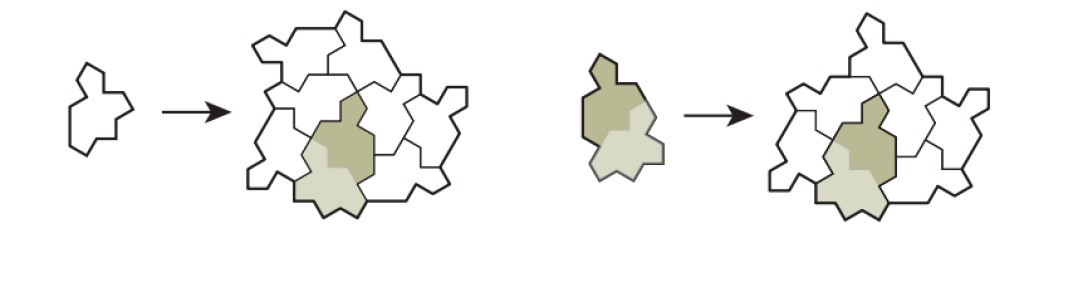
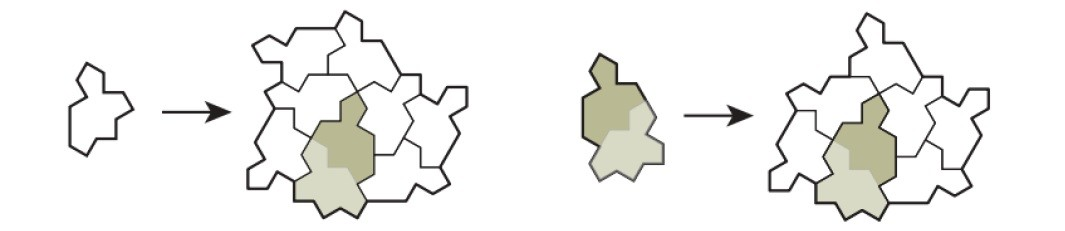
Sistemazione immagini tasselli

Changed region(s): [[0.5268, 0.0303, 0.9296, 0.9697], [0.062, 0.0303, 0.4648, 0.9394]]

diff --git a/tassellazioni.html b/tassellazioni.html
@@ -2,214 +2,238 @@
 <html lang="it">
 
 <head>
-	<title>Tassellazioni del piano - Mattia Garatti</title>
-	<!-- <meta name="description" content=""> -->
-	<meta charset="UTF-8">
-	<meta name="viewport" content="width=device-width, initial-scale=1, user-scalable=no" />
-	<meta http-equiv="Cache-Control" content="no-cache, no-store, must-revalidate" />
-	<meta http-equiv="Pragma" content="no-cache" />
-	<meta http-equiv="Expires" content="0" />
-	<link rel="stylesheet" href="assets/css/main.css" />
-	<link rel="icon" href="images/favicon.ico" type="image/x-icon">
-	<noscript><link rel="stylesheet" href="assets/css/noscript.css" /></noscript>
-	<script id="MathJax-script" async src="https://cdn.jsdelivr.net/npm/mathjax@3/es5/tex-mml-chtml.js"></script>
+    <title>Tassellazioni del piano - Mattia Garatti</title>
+    <meta charset="UTF-8">
+    <meta name="viewport" content="width=device-width, initial-scale=1, user-scalable=no" />
+    <meta http-equiv="Cache-Control" content="no-cache, no-store, must-revalidate" />
+    <meta http-equiv="Pragma" content="no-cache" />
+    <meta http-equiv="Expires" content="0" />
+    <link rel="stylesheet" href="assets/css/main.css" />
+    <link rel="icon" href="images/favicon.ico" type="image/x-icon">
+    <noscript><link rel="stylesheet" href="assets/css/noscript.css" /></noscript>
+    <script id="MathJax-script" async src="https://cdn.jsdelivr.net/npm/mathjax@3/es5/tex-mml-chtml.js"></script>
 </head>
 
 <body class="is-preload tassellazioni">
 
-	<div id="page-wrapper">
+    <div id="page-wrapper">
 
-		<header id="header">
-			<h1><a href="index.html">BACK</a></h1>
-		</header>
+        <header id="header">
+            <h1><a href="index.html">BACK</a></h1>
+        </header>
 
-		<section id="wrapper">
-			<header>
-				<div class="inner">
-					<h2>Tassellazioni del piano</h2>
-				</div>
-			</header>
+        <section id="wrapper">
+            <header>
+                <div class="inner">
+                    <h2>Tassellazioni del piano</h2>
+                </div>
+            </header>
 
-			<div class="wrapper">
-				<div class="inner">
+            <div class="wrapper">
+                <div class="inner">
 
-					<section id="introduzione">
-						<h2 class="major">Introduzione alle tassellazioni</h2>
-						<p style="text-align: justify;">Una tassellazione è una configurazione costituita da poligoni o figure, ditto tasselli, uguali o differenti tra loro, che ricoprono una porzione di piano, l'intero piano o l'intero spazio. I due requisiti essenziali sono che il ricoprimento sia completo, senza spazi tra i tasselli, e non vi siano sovrapposizioni tra le tessere.</p>
+                    <section id="introduzione">
+                        <h2 class="major">Introduzione alle tassellazioni</h2>
+                        <p style="text-align: justify;">Una tassellazione è una configurazione costituita da poligoni o figure, ditto tasselli, uguali o differenti tra loro, che ricoprono una porzione di piano, l'intero piano o l'intero spazio. I due requisiti essenziali sono che il ricoprimento sia completo, senza spazi tra i tasselli, e non vi siano sovrapposizioni tra le tessere.</p>
 
-						<blockquote>
-							Sulla base di questa immagine mentale, quali possono essere esempi di tassellazioni che si incontrano quotidianamente? 
-						</blockquote>
+                        <blockquote>
+                            Sulla base di questa immagine mentale, quali possono essere esempi di tassellazioni che si incontrano quotidianamente? 
+                        </blockquote>
 
-						<p style="text-align: justify;">Alcuni esempi sono sicuramente le piastrellature di pavimenti o pareti, oppure particolari decorazioni artistiche, come quelle dell'Alhambra a Granada. </p>
-						<p style="text-align: justify;">Le prime tassellazioni risalgono ai Sumeri, mentre il primo matematico che le ha studiate in tempi più recenti è Keplero: ne troviamo infatti traccia nel trattato "<span class="emphasis">Le armonie del mondo</span>" del 1619.</p>
+                        <p style="text-align: justify;">Alcuni esempi sono sicuramente le piastrellature di pavimenti o pareti, oppure particolari decorazioni artistiche, come quelle dell'Alhambra a Granada. </p>
+                        <p style="text-align: justify;">Le prime tassellazioni risalgono ai Sumeri, mentre il primo matematico che le ha studiate in tempi più recenti è Keplero: ne troviamo infatti traccia nel trattato "<span class="emphasis">Le armonie del mondo</span>" del 1619.</p>
 
-						<div class="tassellazioni-grid grid-large">
-							<div class="grid-item" style="text-align: center; margin-bottom: 2em;">
-								<img src="images/tassellazioni/pp,550x550.u2.jpg" alt="Tassellazione periodica storica" style="max-width: 100%; height: auto; border-radius: 4px; display: block; margin: 0 auto;" />
-								<p style="font-style: italic; font-size: 0.9em; margin-top: 0.5em;">Particolare di decorazione artistiche, Alhambra (Granada).</p>
-							</div>
-						</div>
+                        <div class="tassellazioni-grid grid-large">
+                            <div class="grid-item" style="text-align: center; margin-bottom: 2em;">
+                                <img src="images/tassellazioni/pp,550x550.u2.jpg" alt="Tassellazione periodica storica" style="max-width: 500px; width: 100%; height: auto; border-radius: 4px; display: block; margin: 0 auto;" />
+                                <p style="font-style: italic; font-size: 0.9em; margin-top: 0.5em;">Particolare di decorazione artistiche, Alhambra (Granada).</p>
+                            </div>
+                        </div>
 
                         <p style="text-align: justify;">Una definizione più rigorsa è la seguente.</p>
 
-						<div class="box">
-							<h3 class="major">Definizione</h3>
-							<p>Consideriamo un insieme <em>S</em>, lo <em>spazio</em>, e un sottoinsieme <em>P</em> di <em>S</em>, i <em>prototipi dei tasselli</em>, che assumiamo essere senza buchi, limitati e formati da un pezzo solo ciascuno (ossia <em>connessi</em>). Preso un sottoinsieme <em>X</em> di S, una <em>tassellazione</em> di <em>X</em> di tipo <em>P</em> è un insieme finito, o infinito numerabile, <em>T</em> di tasselli con le seguenti proprietà:</p>
-							<ol style="list-style-type: lower-alpha;">
-								<li>l'unione di tutti i tasselli è <em>X</em>,</li>
-								<li>tasselli distinti hanno parti interne disgiunte.</li>
-							</ol>
-						</div>
+                        <div class="box">
+                            <h3 class="major">Definizione</h3>
+                            <p>Consideriamo un insieme <em>S</em>, lo <em>spazio</em>, e un sottoinsieme <em>P</em> di <em>S</em>, i <em>prototipi dei tasselli</em>, che assumiamo essere senza buchi, limitati e formati da un pezzo solo ciascuno (ossia <em>connessi</em>). Preso un sottoinsieme <em>X</em> di S, una <em>tassellazione</em> di <em>X</em> di tipo <em>P</em> è un insieme finito, o infinito numerabile, <em>T</em> di tasselli con le seguenti proprietà:</p>
+                            <ol style="list-style-type: lower-alpha;">
+                                <li>l'unione di tutti i tasselli è <em>X</em>,</li>
+                                <li>tasselli distinti hanno parti interne disgiunte.</li>
+                            </ol>
+                        </div>
 
-						<p style="text-align: justify;">Una tassellazione è <em>propria</em> se i tasselli si incontrano solo in corrispondenze lato-lato o vertice-vertice. Le tassellazioni si distinguono in tassellazioni periodiche (come quella nella figura precedente) e non periodiche.</p>
-					</section>
+                        <p style="text-align: justify;">Una tassellazione è <em>propria</em> se i tasselli si incontrano solo in corrispondenze lato-lato o vertice-vertice. Le tassellazioni si distinguono in tassellazioni periodiche (come quella nella figura precedente) e non periodiche.</p>
+                    </section>
 
-					<hr />
+                    <hr />
 
-					<section id="periodiche">
-						<h2 class="major">Le tassellazioni periodiche</h2>
-						<p style="text-align: justify;">Una tassellazione si dice <em>periodica</em> se viene costruita ripetendo una cella elementare di base.</p>
+                    <section id="periodiche">
+                        <h2 class="major">Le tassellazioni periodiche</h2>
+                        <p style="text-align: justify;">Una tassellazione si dice <em>periodica</em> se viene costruita ripetendo una cella elementare di base.</p>
 
-						<h3 class="major">Il caso piano</h3>
-						<p style="text-align: justify;"><strong>Teorema</strong> Una tassellazione piana <em>T</em> è periodica se e solo se esistono due vettori <strong>v</strong><sub>1</sub>,<strong>v</strong><sub>2</sub> linearmente indipendenti tali che se <em>T</em> viene traslata tramite <strong>v</strong><sub>1</sub>,<strong>v</strong><sub>2</sub>, rimane invariata.</p>
-						<p style="text-align: justify;">Osserviamo poi che per il <em>Teorema Fondamentale della Cristallografia</em>, che definisce i legami tra i parametri relativi agli assi di riferimento di un cristallo, si possono costruire tassellazioni periodiche piane utilizzando come cella elementare un poligono regolare se e solo se tale poligono è un triangolo, un quadrato o un esagono.</p>
+                        <h3 class="major">Il caso piano</h3>
+                        <p style="text-align: justify;"><strong>Teorema</strong> Una tassellazione piana <em>T</em> è periodica se e solo se esistono due vettori <strong>v</strong><sub>1</sub>,<strong>v</strong><sub>2</sub> linearmente indipendenti tali che se <em>T</em> viene traslata tramite <strong>v</strong><sub>1</sub>,<strong>v</strong><sub>2</sub>, rimane invariata.</p>
+                        <p style="text-align: justify;">Osserviamo poi che per il <em>Teorema Fondamentale della Cristallografia</em>, che definisce i legami tra i parametri relativi agli assi di riferimento di un cristallo, si possono costruire tassellazioni periodiche piane utilizzando come cella elementare un poligono regolare se e solo se tale poligono è un triangolo, un quadrato o un esagono.</p>
 
-						<div class="row" style="margin-bottom: 2em; text-align: center;">
-							<div class="col-4 col-12-medium"><img src="images/tassellazioni/Triangoli.jpg" alt="Triangoli" style="width: 100%; max-width: 100%; border-radius: 4px; display: block; margin: 0 auto;" /><h5>Triangoli</h5></div>
-							<div class="col-4 col-12-medium"><img src="images/tassellazioni/Quadrati.jpg" alt="Quadrati" style="width: 100%; max-width: 100%; border-radius: 4px; display: block; margin: 0 auto;" /><h5>Quadrati</h5></div>
-							<div class="col-4 col-12-medium"><img src="images/tassellazioni/Esagoni.jpg" alt="Esagoni" style="width: 100%; max-width: 100%; border-radius: 4px; display: block; margin: 0 auto;" /><h5>Esagoni</h5></div>
+                        <div style="display: flex; flex-wrap: wrap; justify-content: center; align-items: center; text-align: center; margin-bottom: 3em; gap: 20px;">
+    
+    						<div style="flex: 1; min-width: 200px; max-width: 260px;">
+        						<img src="images/tassellazioni/Triangoli.jpg" alt="Triangoli" style="width: 100%; height: auto; border-radius: 4px; display: block; margin: 0 auto;" />
+        						<h5 style="margin-top: 0.8em; margin-bottom: 0;">Triangoli</h5>
+    						</div>
+    
+    						<div style="flex: 1; min-width: 200px; max-width: 370px;">
+        						<img src="images/tassellazioni/Quadrati.jpg" alt="Quadrati" style="width: 100%; height: auto; border-radius: 4px; display: block; margin: 0 auto;" />
+        						<h5 style="margin-top: 0.8em; margin-bottom: 0;">Quadrati</h5>
+    						</div>
+    
+    					<div style="flex: 1; min-width: 200px; max-width: 230px;">
+        					<img src="images/tassellazioni/Esagoni.jpg" alt="Esagoni" style="width: 100%; height: auto; border-radius: 4px; display: block; margin: 0 auto;" />
+        					<h5 style="margin-top: 0.8em; margin-bottom: 0;">Esagoni</h5>
+    					</div>
+
 						</div>
                         
 
-						<h3 class="major">Fatti curiosi</h3>
-						<ul>
-							<li>I pattern delle tassellazioni periodiche formano i 17 <em>gruffici cristallografici piani</em>.</li>
-							<li>Il <em>problema di Domino</em>, ossia stabilire se un dato insieme di prototipi di tasselli possa originare una tassellazione periodica, è indecidibile.</li>
+                        <h3 class="major">Fatti curiosi</h3>
+                        <ul>
+                            <li>I pattern delle tassellazioni periodiche formano i 17 <em>gruppi cristallografici piani</em>.</li>
+                            <li>Il <em>problema di Domino</em>, ossia stabilire se un dato insieme di prototipi di tasselli possa originare una tassellazione periodica, è indecidibile.</li>
                         </ul>
 
                         <h3 class="major">Esempi</h3>
-						<ul>
+                        <ul>
                             <li>In natura, esempi di tassellazioni periodiche sono il favo delle api, le fratture del terreno roccioso, note come <em>tassellazioni di Gilbert</em>, oppure le soluzioni saponate che si aggregano tassellando lo spazio secondo le <em>leggi di Plateau</em>.</li>
-							<li>Il grafico olandese Maurits Cornelis <em>Escher</em>, manipolando opportunamente un singolo modello ornamentale, ha costruito tassellazioni periodiche di grande effetto.</li>
-						</ul>
+                            <li>Il grafico olandese Maurits Cornelis <em>Escher</em>, manipolando opportunamente un singolo modello ornamentale, ha costruito tassellazioni periodiche di grande effetto.</li>
+                        </ul>
 
-						<div class="row" style="margin-bottom: 2em;">
-							<div class="col-6 col-12-medium"><img src="images/tassellazioni/tassellazione periodica 2.png" alt="Escher 1" style="width:100%; border-radius: 4px; display: block; margin: 0 auto;" /></div>
-							<div class="col-6 col-12-medium"><img src="images/tassellazioni/tassellazione periodica.jpg" alt="Escher 2" style="width:100%; border-radius: 4px; display: block; margin: 0 auto;" /></div>
-						</div>
+                        <div style="display: flex; flex-wrap: wrap; justify-content: center; align-items: center; text-align: center; margin-bottom: 2em; gap: 30px;">
+    
+    						<div style="flex: 1; min-width: 280px; max-width: 380px;">
+        						<img src="images/tassellazioni/tassellazione periodica 2.png" alt="Escher 1" style="width: 100%; height: auto; border-radius: 4px; display: block; margin: 0 auto;" />
+    						</div>
+    
+    						<div style="flex: 1; min-width: 280px; max-width: 410px;">
+        						<img src="images/tassellazioni/tassellazione periodica.jpg" alt="Escher 2" style="width: 100%; height: auto; border-radius: 4px; display: block; margin: 0 auto;" />
+    							</div>
 
-						<h3 class="major">Applicazioni</h3>
-						<p style="text-align: justify;">Una delle applicazioni più comuni delle tassellazioni periodiche è sicuramente il <em>rendering di ambienti 3D</em> in computer grafica: tassellando le figure da rappresentare, si può creare una forma tridimensionale più dettagliata. Rendendo dinamica la tassellazione, in modo che si adatti in base alla vicinanza dell'oggetto, si può inoltre ottenere un risparmo di risorse.</p>
-					</section>
-
-					<hr />
-
-					<section id="non-periodiche">
-						<h2 class="major">Le tassellazioni non periodiche</h2>
-						<p style="text-align: justify;">Le tassellazioni non periodiche sono quelle che non possiedono simmetrie traslazionali.</p>
-
-						<h3 class="major">Le tassellazioni di Penrose</h3>
-						<p style="text-align: justify;">Il matematico Roger Penrose (1931 -- ) ha scoperto l'esistenza di particolari tipi di tasselli che hanno la particolarità di essere replicabili in modo non periodico.</p>
-
-						<div class="row" style="margin-bottom: 2em; justify-content: center; text-align: center;">
-							<div class="col-4 col-12-medium"><img src="images/tassellazioni/cattura5.PNG" alt="Penrose" style="width: 100%; max-width: 100%; border-radius: 4px; display: block; margin: 0 auto;" /></div>
 						</div>
 
                         <h3 class="major">Applicazioni</h3>
-						<p style="text-align: justify;">Una delle maggiori applicazioni delle tassellazioni aperiodiche è lo studio dei <em>quasicristalli</em>, particolari materiali in cui gli atomi sono disposti in una struttura deterministica ma non ripetitiva, cioè non periodica. Un esempio ne è l'icosaedrite, scoperta nel 2009.</p>
-					</section>
+                        <p style="text-align: justify;">Una delle applicazioni più comuni delle tassellazioni periodiche è sicuramente il <em>rendering di ambienti 3D</em> in computer grafica: tassellando le figure da rappresentare, si può creare una forma tridimensionale più dettagliata. Rendendo dinamica la tassellazione, in modo che si adatti in base alla vicinanza dell'oggetto, si può inoltre ottenere un risparmo di risorse.</p>
+                    </section>
 
-					<hr />
+                    <hr />
 
-					<section id="einstein">
-						<h2 class="major">Il tassello Einstein</h2>
-						<p style="text-align: justify;">Per molto tempo è stato un problema aperto, noto come ricerca del tassello di Einstein, trovare una tassellazione del piano che utilizzi un solo tipo di tassello ripetuto in modo non periodico. Nel tempo sono stati proposti numerosi candidati come tassello di Einstein, ma in generale si erano sempre scontrati in qualche modo con la definizione iniziale. A Marzo 2023, il team di David Smith ha fornito un esempio di tassellazione monoedrica non periodica. Tale tassello è stato chiamato Hat e può essere costruito combinando opportunamente 16 triangoli rettangoli congruenti.</p>
+                    <section id="non-periodiche">
+                        <h2 class="major">Le tassellazioni non periodiche</h2>
+                        <p style="text-align: justify;">Le tassellazioni non periodiche sono quelle che non possiedono simmetrie traslazionali.</p>
 
-						<div style="text-align: center; margin-bottom: 2em;">
-							<img src="images/tassellazioni/tassello cappello.jpg" alt="Hat" style="max-width: 300px; width: 100%; border-radius: 4px; display: block; margin: 0 auto;" />
-							<h5>Il tassello Hat</h5>
+                        <h3 class="major">Le tassellazioni di Penrose</h3>
+                        <p style="text-align: justify;">Il matematico Roger Penrose (1931 -- ) ha scoperto l'esistenza di particolari tipi di tasselli che hanno la particolarità di essere replicabili in modo non periodico.</p>
+
+                        <div style="text-align: center; margin: 2em auto;">
+   							<img src="images/tassellazioni/cattura5.PNG" alt="Penrose" style="max-width: 800px; width: 100%; height: auto; border-radius: 4px; display: block; margin: 0 auto;" />
 						</div>
+
+                        <h3 class="major">Applicazioni</h3>
+                        <p style="text-align: justify;">Una delle maggiori applicazioni delle tassellazioni aperiodiche è lo studio dei <em>quasicristalli</em>, particolari materiali in cui gli atomi sono disposti in una struttura deterministica ma non ripetitiva, cioè non periodica. Un esempio ne è l'icosaedrite, scoperta nel 2009.</p>
+                    </section>
+
+                    <hr />
+
+                    <section id="einstein">
+                        <h2 class="major">Il tassello Einstein</h2>
+                        <p style="text-align: justify;">Per molto tempo è stato un problema aperto, noto come ricerca del tassello di Einstein, trovare una tassellazione del piano che utilizzi un solo tipo di tassello ripetuto in modo non periodico. Nel tempo sono stati proposti numerosi candidati come tassello di Einstein, ma in generale si erano sempre scontrati in qualche modo con la definizione iniziale. A Marzo 2023, il team di David Smith ha fornito un esempio di tassellazione monoedrica non periodica. Tale tassello è stato chiamato Hat e può essere costruito combinando opportunamente 16 triangoli rettangoli congruenti.</p>
+
+                        <div style="text-align: center; margin-bottom: 2em;">
+                            <img src="images/tassellazioni/tassello cappello.jpg" alt="Hat" style="max-width: 350px; width: 100%; height: auto; border-radius: 4px; display: block; margin: 0 auto;" />
+                            <h5>Il tassello Hat</h5>
+                        </div>
 
                         <p style="text-align: justify;">Il team di ricerca ha dichiarato che con il tassello Hat è possibile costruire una tassellazione monoedrica, cioè che usa un solo tipo di tassello, aperiodica. Nell'articolo, forniscono addirittura un'intera famiglia di tasselli di Einstein: gli appartenenti sono l'uno il trasformato dell'altro tramite manipolazioni indipendenti e continue. Nella comunità accademica, il tassello Hat desta però ancora qualche dubbio: per raggiungere l'aperiodicità è infatti necessario utilizzare anche il suo speculare. Questo problema è stato risolto da un altro membro della famiglia di tasselli scoperto a maggio 2023 sempre dal team di David Smith, il tassello Spectre. Di fatto è stato trovato un esemplare di tassello di Einstein.</p>
 
                         
-						<div class="row" style="margin-bottom: 2em; justify-content: center; text-align: center;">
-							<div class="col-4 col-12-medium"><img src="images/tassellazioni/Cattura8.PNG" alt="Spectre 1" style="width:100%; max-width: 100%; border-radius: 4px; display: block; margin: 0 auto;" /></div>
+                        <div class="row" style="margin-bottom: 2em; justify-content: center; text-align: center;">
+                            <div class="col-6 col-12-medium"><img src="images/tassellazioni/Cattura8.PNG" alt="Spectre 1" style="width: 100%; height: auto; border-radius: 4px; display: block; margin: 0 auto;" /></div>
                         </div>
 
                         <p style="text-align: justify;">Il monotassello aperiodico è privo di simmetrie, ha 13 lati e gli angoli sono multipli di 30, in modo da favorirne varie rotazioni.</p>
 
 
                         <div class="row" style="margin-bottom: 2em; align-items: center;">
-							<div class="col-4 col-12-medium" style="text-align: center;"><img src="images/tassellazioni/Cattura.PNG" alt="Spectre Dettagli" style="width:100%; max-width: 100%; border-radius: 4px; display: block; margin: 0 auto;" /></div>
-							<div class="col-8 col-12-medium">
-								<p style="text-align: justify; margin-bottom: 0;">Si nota facilmente che la faccia rossa e il suo speculare non possono essere sovrapposte ottenendo la stessa figura: il tassello è detto chirale.</p> 
-							</div>
-						</div>
+                            <div class="col-4 col-12-medium" style="text-align: center;"><img src="images/tassellazioni/Cattura.PNG" alt="Spectre Dettagli" style="width: 100%; height: auto; border-radius: 4px; display: block; margin: 0 auto;" /></div>
+                            <div class="col-8 col-12-medium">
+                                <p style="text-align: justify; margin-bottom: 0;">Si nota facilmente che la faccia rossa e il suo speculare non possono essere sovrapposte ottenendo la stessa figura: il tassello è detto chirale.</p> 
+                            </div>
+                        </div>
 
                         <p style="text-align: justify;">Accostando alcune piastrelle per traslazione si ottiene una torre di spettri.</p>
 
                         <div class="row" style="margin-bottom: 2em; justify-content: center; text-align: center;">
-							<div class="col-4 col-12-medium"><img src="images/tassellazioni/Cattura2.PNG" alt="Torre" style="width:100%; max-width: 100%; border-radius: 4px; display: block; margin: 0 auto;" /><h5>Torre di Spectre</h5></div>
-						</div>
+                            <div class="col-5 col-12-medium"><img src="images/tassellazioni/Cattura2.PNG" alt="Torre" style="width: 100%; height: auto; border-radius: 4px; display: block; margin: 0 auto;" /><h5>Torre di Spectre</h5></div>
+                        </div>
 
                         <p style="text-align: justify;">Si possono impilare quante piastrelle si voglia; impilandone due o tre, si può ancora estendere la tassellazione, ma se la torre è composta da più di tre piastrelle ciò diventa impossibile. Tuttavia, violando la richiesta di monoedricità e usando anche il tassello speculare è possibile ottenere una tassellazione biedrica periodica, accostando due torri infinite, una di tasselli Spectre, e una di tasselli speculari. La striscia che si ottiene può essere replicata in modo da riempire tutto il piano.</p>
 
-						<h3 class="major">Costruzione della tassellazione con lo Spectre</h3>
+                        <h3 class="major">Costruzione della tassellazione con lo Spectre</h3>
 
                         <p style="text-align: justify;">Per costruire la tassellazione aperiodica con lo Spectre è necessario iniziare combinando due tasselli: si ottiene il tassello Mystic, il cui nome deriva dal profilo che assomiglia ad un Buddha. Inoltre, tale costruzione è simmetrica rispetto all'asse indicato nella figura seguente.</p>
 
-						<div style="text-align: center; margin-bottom: 2em;">
-							<img src="images/tassellazioni/Cattura3.png" alt="Mystic" style="max-width: 400px; width:100%; border-radius: 4px; display: block; margin: 0 auto;" />
-							<h5>Costruzione del tassello Mystic</h5>
-						</div>
+                        <div style="text-align: center; margin-bottom: 2em;">
+                            <img src="images/tassellazioni/Cattura3.png" alt="Mystic" style="max-width: 450px; width: 100%; height: auto; border-radius: 4px; display: block; margin: 0 auto;" />
+                            <h5>Costruzione del tassello Mystic</h5>
+                        </div>
 
                         <p style="text-align: justify;">Per proseguire con la tassellazione, si procede per livelli. Il primo livello consiste nel creare due aggregati, lo Spettro e il Mistico di livello 1.</p>
 
-						<div class="row" style="margin-bottom: 2em; justify-content: center; text-align: center;">
-							<div class="col-4 col-6-medium"><img src="images/tassellazioni/Cattura4.PNG" alt="Livello 1" style="width:100%; max-width: 100%; border-radius:4px; display: block; margin: 0 auto;" /></div>
-							<div class="col-4 col-6-medium"><img src="images/tassellazioni/Spectre e Mystic.jpg" alt="S e M" style="width:100%; max-width: 100%; border-radius:4px; display: block; margin: 0 auto;" /></div>
-                        </div>
+                        <div style="display: flex; flex-wrap: wrap; justify-content: center; align-items: center; margin-bottom: 2em; text-align: center;">
+    <div style="width: 35%; min-width: 250px; padding: 10px; box-sizing: border-box;">
+        <img src="images/tassellazioni/Cattura4.PNG" alt="Livello 1" style="width: 100%; height: auto; border-radius: 4px; display: block; margin: 0 auto;" />
+    </div>
+    
+    <div style="width: 58.27%; min-width: 280px; padding: 10px; box-sizing: border-box;">
+        <img src="images/tassellazioni/Spectre e Mystic.jpg" alt="S e M" style="width: 100%; height: auto; border-radius: 4px; display: block; margin: 0 auto;" />
+    </div>
+</div>
 
                         <p style="text-align: justify;">Lo Spettro di livello 1 si ottiene circondando un Mistico (di livello 0) con 7 Spettri disposti come nella figura precedente a sinistra. Rispetto al tassello blu del Mistico e procedendo in senso orario, dal rosa più tenue al rosso, l'angolo di rotazione di ciascuno Spettro è -120, -60, -60, 0, 60, 60, 120 gradi. Il Mistico di livello 1 si ottiene rimuovendo lo Spettro più esterno, come mostrato a destra nella figura precedente. Si noti quindi che tra i due aggregati vi è un solo tassello di differenza. Queste costruzioni sono il primo passo di una procedura che si generalizza e che permette di riempire regioni sempre più estese. Per la costruzione del secondo livello, come mostrato nella figura seguente, si considera un Mistico di primo livello, circondato da 6 spetti di livello 1, e se ne aggiungerà uno per lo Spettro di livello 2, e così via.</p>
 
-                        <div class="row" style="margin-bottom: 2em; justify-content: center; text-align: center;">
-							<div class="col-4 col-6-medium"><img src="images/tassellazioni/Cattura6.PNG" alt="Livello 2" style="width:100%; max-width: 100%; border-radius:4px; display: block; margin: 0 auto;" /></div>
-                        </div>
+                        <div style="text-align: center; margin: 2em auto;">
+    						<img src="images/tassellazioni/Cattura6.PNG" alt="Livello 2" style="max-width: 550px; width: 100%; height: auto; border-radius: 4px; display: block; margin: 0 auto;" />
+						</div>
 
                         <p style="text-align: justify;">Si prosegue poi con il livello 3 nella figura seguente.</p> 
 
                         <div class="row" style="margin-bottom: 2em; justify-content: center; text-align: center;">
-							<div class="col-4 col-6-medium"><img src="images/tassellazioni/Cattura7.PNG" alt="Livello 3" style="width:100%; max-width: 100%; border-radius:4px; display: block; margin: 0 auto;" /></div>
-						</div>
+                            <div class="col-7 col-12-medium"><img src="images/tassellazioni/Cattura7.PNG" alt="Livello 3" style="width: 100%; height: auto; border-radius: 4px; display: block; margin: 0 auto;" /></div>
+                        </div>
 
                         <p style="text-align: justify;">Per finire, la tassellazione monoedrica aperiodica dal livello 0 al livello 4.</p>
-						<div style="text-align: center; margin-top: 3em;">
-							<img src="images/tassellazioni/10.PNG" alt="Completa" style="max-width: 100%; height: auto; border-radius: 4px; display: block; margin: 0 auto;" />
-						</div>
-					</section>
+                        <div style="text-align: center; margin-top: 3em;">
+                            <img src="images/tassellazioni/10.PNG" alt="Completa" style="max-width: 100%; height: auto; border-radius: 4px; display: block; margin: 0 auto;" />
+                        </div>
+                    </section>
 
-				</div>
-			</div>
-		</section>
+                </div>
+            </div>
+        </section>
 
-		<section id="footer">
-			<div class="inner">
-				<ul class="copyright">
-					<li>&copy; Mattia Garatti | All rights reserved.</li>
-				</ul>
-			</div>
-		</section>
+        <section id="footer">
+            <div class="inner">
+                <ul class="copyright">
+                    <li>&copy; Mattia Garatti | All rights reserved.</li>
+                </ul>
+            </div>
+        </section>
 
-	</div>
+    </div>
 
-	<script src="assets/js/jquery.min.js"></script>
-	<script src="assets/js/jquery.scrollex.min.js"></script>
-	<script src="assets/js/browser.min.js"></script>
-	<script src="assets/js/breakpoints.min.js"></script>
-	<script src="assets/js/util.js"></script>
-	<script src="assets/js/main.js"></script>
+    <script src="assets/js/jquery.min.js"></script>
+    <script src="assets/js/jquery.scrollex.min.js"></script>
+    <script src="assets/js/browser.min.js"></script>
+    <script src="assets/js/breakpoints.min.js"></script>
+    <script src="assets/js/util.js"></script>
+    <script src="assets/js/main.js"></script>
 
 </body>
 </html>
